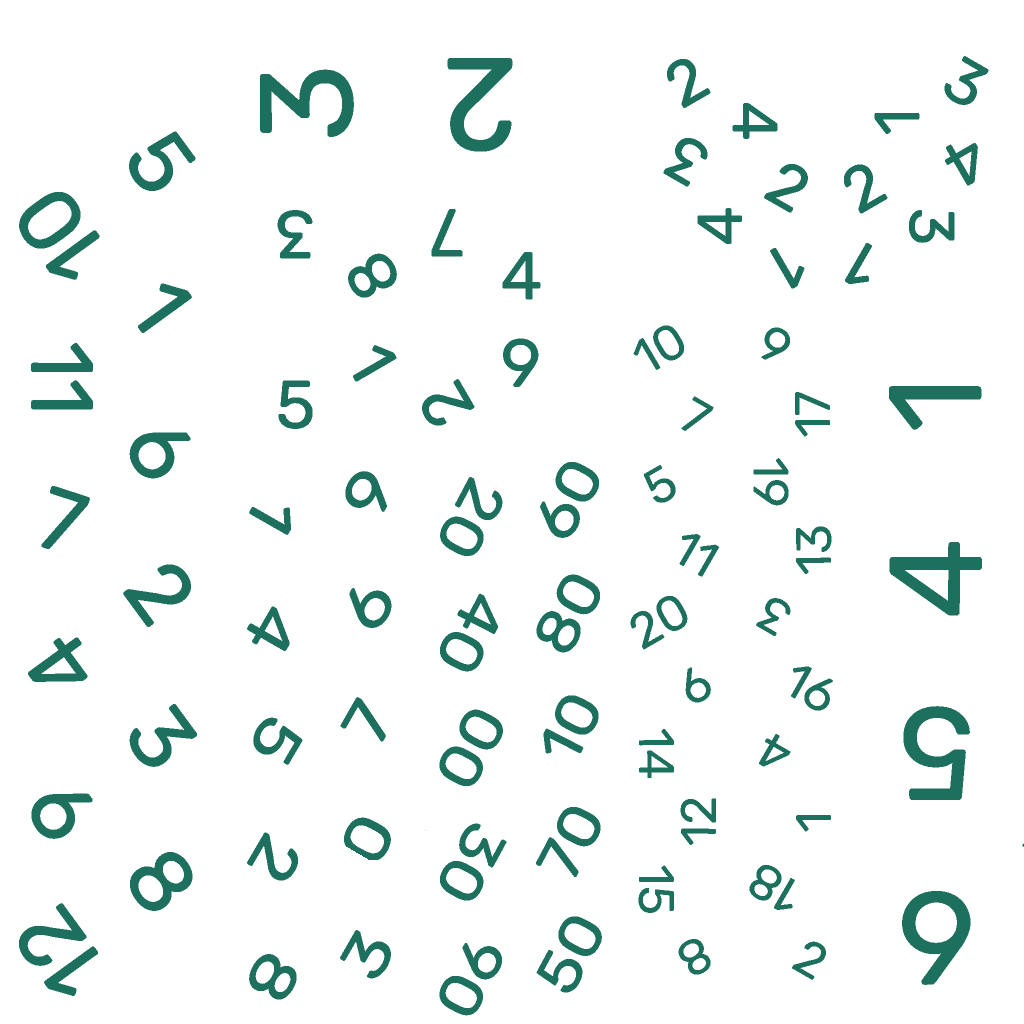
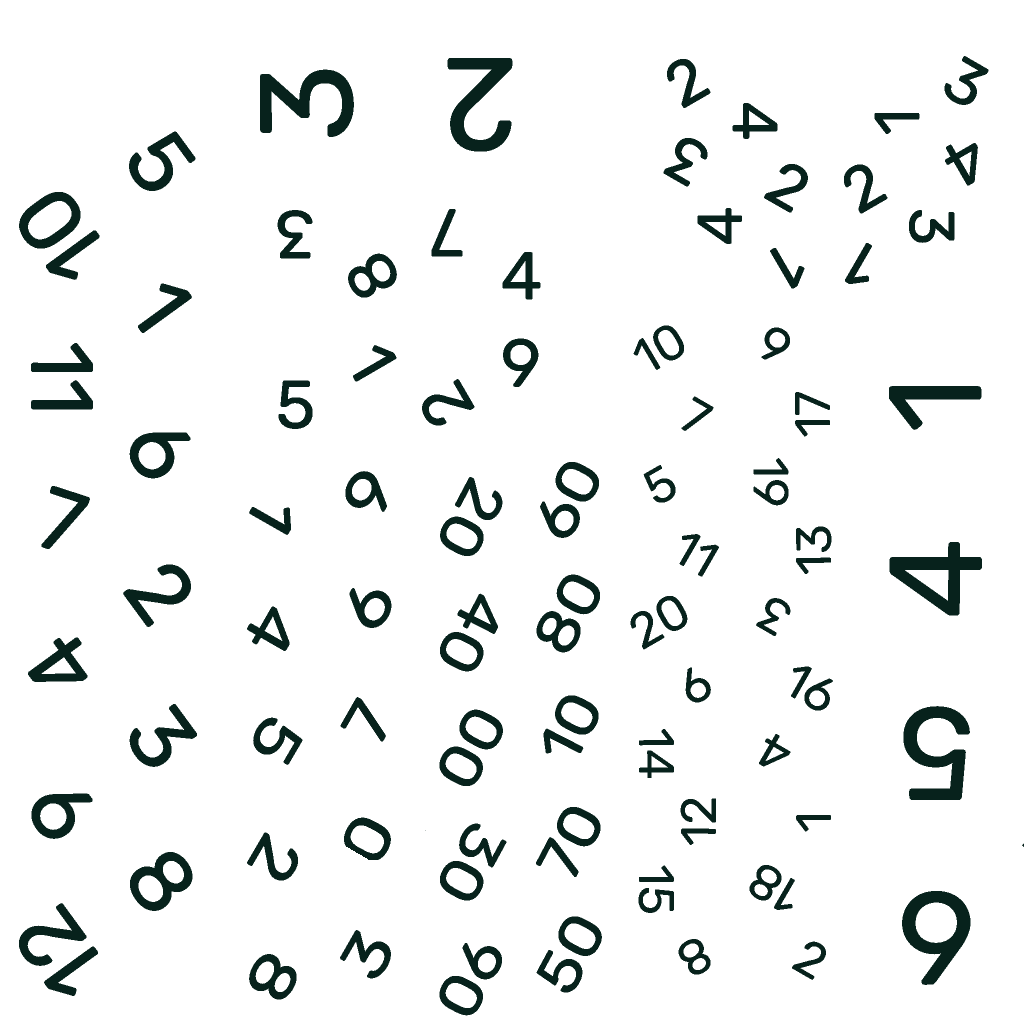
style(initiative): invert player die theme to #97f23d body with #07221c numbers

diff --git a/client/test/InitiativeHud.test.js b/client/test/InitiativeHud.test.js
@@ -40,12 +40,10 @@ describe('Initiative Dice & HUD System', () => {
     });
 
     it('defines CSS colors matching user specifications', () => {
-      // Player: body #70e6b3, border/text #1d705d
-      expect(spaceContent).toMatch(/#70e6b3/);
-      expect(spaceContent).toMatch(/#1d705d/);
-      // Opposition: body #07221c, numbers #97f23d
-      expect(spaceContent).toMatch(/#07221c/);
+      // Player: body #97f23d, border/text #07221c
       expect(spaceContent).toMatch(/#97f23d/);
+      expect(spaceContent).toMatch(/#07221c/);
+      // Opposition: body #07221c, numbers #97f23d
     });
 
     it('defines glow effect box-shadow and text-shadow on initiative HUD banner', () => {
@@ -85,12 +83,10 @@ describe('Initiative Dice & HUD System', () => {
     });
 
     it('defines CSS colors matching user specifications', () => {
-      // Player: body #70e6b3, border/text #1d705d
-      expect(rpgContent).toMatch(/#70e6b3/);
-      expect(rpgContent).toMatch(/#1d705d/);
-      // Opposition: body #07221c, numbers #97f23d
-      expect(rpgContent).toMatch(/#07221c/);
+      // Player: body #97f23d, border/text #07221c
       expect(rpgContent).toMatch(/#97f23d/);
+      expect(rpgContent).toMatch(/#07221c/);
+      // Opposition: body #07221c, numbers #97f23d
     });
 
     it('defines glow effect box-shadow and text-shadow on initiative HUD banner', () => {
@@ -116,6 +112,16 @@ describe('Initiative Dice & HUD System', () => {
   });
 
   describe('Initiative Roll Winner Determination', () => {
+    it('correctly parses dice rolls with inverted theme colors (#97f23d player, #07221c opp)', () => {
+      const res = calculateInitiativeRoll([
+        { theme: 'custom-init-player', themeColor: '#97f23d', value: 8 },
+        { theme: 'custom-init-opp', themeColor: '#07221c', value: 4 }
+      ]);
+      expect(res.playerRoll).toBe(8);
+      expect(res.oppRoll).toBe(4);
+      expect(res.valid).toBe(true);
+    });
+
     it('correctly parses dice rolls with #70e6b3 and #07221c themeColors', () => {
       const res = calculateInitiativeRoll([
         { theme: 'custom-init-player', themeColor: '#70e6b3', value: 8 },

diff --git a/client/src/views/RpgVttView.vue b/client/src/views/RpgVttView.vue
@@ -1033,7 +1033,7 @@ async function rollInitiative() {
 
   try {
     const results = await executeQueuedDiceRoll(diceBox, [
-      { sides: 10, theme: 'custom-init-player', themeColor: '#70e6b3', qty: 1 },
+      { sides: 10, theme: 'custom-init-player', themeColor: '#97f23d', qty: 1 },
       { sides: 10, theme: 'custom-init-opp', themeColor: '#07221c', qty: 1 }
     ]);
     const initSummary = calculateInitiativeRoll(results);
@@ -2604,10 +2604,10 @@ onBeforeUnmount(() => {
   box-shadow: inset 0 2px 4px rgba(255, 255, 255, 0.1), 0 4px 12px rgba(0, 0, 0, 0.4);
 }
 .init-player-die {
-  background: #70e6b3;
-  border: 2px solid #1d705d;
-  color: #1d705d;
-  box-shadow: 0 0 12px rgba(112, 230, 179, 0.4), inset 0 2px 4px rgba(255, 255, 255, 0.3);
+  background: #97f23d;
+  border: 2px solid #07221c;
+  color: #07221c;
+  box-shadow: 0 0 12px rgba(151, 242, 61, 0.4), inset 0 2px 4px rgba(255, 255, 255, 0.3);
 }
 .init-player-die .init-val {
   text-shadow: 0 0 10px rgba(181, 238, 255, 0.7);
@@ -2648,13 +2648,13 @@ onBeforeUnmount(() => {
   font-size: 11px;
 }
 .init-pill-player {
-  background: #70e6b3;
-  color: #1d705d;
-  border: 1px solid #1d705d;
+  background: #97f23d;
+  color: #07221c;
+  border: 1px solid #07221c;
   padding: 1px 6px;
   border-radius: 3px;
   font-weight: 700;
-  box-shadow: 0 0 6px rgba(112, 230, 179, 0.35);
+  box-shadow: 0 0 6px rgba(151, 242, 61, 0.35);
 }
 .init-pill-opp {
   background: #07221c;

diff --git a/client/src/views/SpaceVttView.vue b/client/src/views/SpaceVttView.vue
@@ -1654,7 +1654,7 @@ async function rollInitiative() {
 
   try {
     const results = await executeQueuedDiceRoll(diceBox, [
-      { sides: 10, theme: 'custom-init-player', themeColor: '#70e6b3', qty: 1 },
+      { sides: 10, theme: 'custom-init-player', themeColor: '#97f23d', qty: 1 },
       { sides: 10, theme: 'custom-init-opp', themeColor: '#07221c', qty: 1 }
     ]);
     const initSummary = calculateInitiativeRoll(results);
@@ -3731,10 +3731,10 @@ onBeforeUnmount(() => {
   box-shadow: inset 0 2px 4px rgba(255, 255, 255, 0.1), 0 4px 12px rgba(0, 0, 0, 0.4);
 }
 .init-player-die {
-  background: #70e6b3;
-  border: 2px solid #1d705d;
-  color: #1d705d;
-  box-shadow: 0 0 12px rgba(112, 230, 179, 0.4), inset 0 2px 4px rgba(255, 255, 255, 0.3);
+  background: #97f23d;
+  border: 2px solid #07221c;
+  color: #07221c;
+  box-shadow: 0 0 12px rgba(151, 242, 61, 0.4), inset 0 2px 4px rgba(255, 255, 255, 0.3);
 }
 .init-player-die .init-val {
   text-shadow: 0 0 10px rgba(181, 238, 255, 0.7);
@@ -3775,13 +3775,13 @@ onBeforeUnmount(() => {
   font-size: 11px;
 }
 .init-pill-player {
-  background: #70e6b3;
-  color: #1d705d;
-  border: 1px solid #1d705d;
+  background: #97f23d;
+  color: #07221c;
+  border: 1px solid #07221c;
   padding: 1px 6px;
   border-radius: 3px;
   font-weight: 700;
-  box-shadow: 0 0 6px rgba(112, 230, 179, 0.35);
+  box-shadow: 0 0 6px rgba(151, 242, 61, 0.35);
 }
 .init-pill-opp {
   background: #07221c;

diff --git a/server/build_initiative_themes.js b/server/build_initiative_themes.js
@@ -127,8 +127,8 @@ async function main() {
 
   const filesToCopy = ['default.json', 'package.json', 'specular.jpg', 'theme.config.json'];
 
-  // Player theme numbers: #1d705d (dark green on #70e6b3 die)
-  const playerDiffuse = await makeDiffuse(0x1d, 0x70, 0x5d);
+  // Player theme numbers: #07221c (dark spruce on #97f23d die)
+  const playerDiffuse = await makeDiffuse(0x07, 0x22, 0x1c);
   const playerDir = path.join(root, 'public/assets/dice-box/themes/custom-init-player');
   if (!fs.existsSync(playerDir)) fs.mkdirSync(playerDir, { recursive: true });
   for (const f of filesToCopy) {
@@ -137,9 +137,9 @@ async function main() {
   fs.writeFileSync(path.join(playerDir, 'diffuse-light.png'), playerDiffuse);
   fs.writeFileSync(path.join(playerDir, 'diffuse-dark.png'), playerDiffuse);
   fs.writeFileSync(path.join(playerDir, 'normal.png'), normBuffer);
-  console.log('Generated custom-init-player theme (#1d705d)');
+  console.log('Generated custom-init-player theme (#07221c)');
 
-  // Opposition theme numbers: #97f23d (bright lime on #124a3d die)
+  // Opposition theme numbers: #97f23d (bright lime on #07221c die)
   const oppDiffuse = await makeDiffuse(0x97, 0xf2, 0x3d);
   const oppDir = path.join(root, 'public/assets/dice-box/themes/custom-init-opp');
   if (!fs.existsSync(oppDir)) fs.mkdirSync(oppDir, { recursive: true });

diff --git a/client/src/utils/diceUtils.js b/client/src/utils/diceUtils.js
@@ -77,7 +77,7 @@ export function calculatePercentileRoll(results) {
 
 /**
  * Processes settled die objects from @3d-dice/dice-box for combat initiative.
- * Die #1 (Players): theme 'custom-init-player', themeColor '#70e6b3' (legacy: '#12415a', '#0b222e').
+ * Die #1 (Players): theme 'custom-init-player', themeColor '#97f23d' (legacy: '#70e6b3', '#12415a', '#0b222e').
  * Die #2 (Opposition): theme 'custom-init-opp', themeColor '#07221c' (legacy: '#124a3d', '#1d705d', '#6f0e39', '#400a22').
  * On a d10 face showing 0 (raw value 0 or 10), the roll value is 10 (range 1-10).
  *
@@ -94,9 +94,10 @@ export function calculateInitiativeRoll(results) {
     return { playerRoll: 0, oppRoll: 0, winner: 'tie', valid: false };
   }
 
-  // Find player die: theme 'custom-init-player', themeColor '#70e6b3' / '#12415a' / '#0b222e' / '#17304a', or groupId 0
+  // Find player die: theme 'custom-init-player', themeColor '#97f23d' / '#70e6b3' / '#12415a' / '#0b222e' / '#17304a', or groupId 0
   const playerDie = flat.find(d =>
     d?.theme === 'custom-init-player' ||
+    d?.themeColor?.toLowerCase() === '#97f23d' ||
     d?.themeColor?.toLowerCase() === '#70e6b3' ||
     d?.themeColor?.toLowerCase() === '#12415a' ||
     d?.themeColor?.toLowerCase() === '#0b222e' ||

diff --git a/client/test/diceUtils.test.js b/client/test/diceUtils.test.js
@@ -228,10 +228,10 @@ describe('calculateInitiativeRoll', () => {
   });
 
   it('identifies dice by themeColor when theme name is not present', () => {
-    // Reverse order input with new green site motif initiative colors (#70e6b3 and #07221c)
+    // Reverse order input with new green site motif initiative colors (#97f23d and #07221c)
     const raw = [
       { value: 6, themeColor: '#07221c' },
-      { value: 9, themeColor: '#70e6b3' },
+      { value: 9, themeColor: '#97f23d' },
     ];
     const result = calculateInitiativeRoll(raw);
     expect(result).toEqual({

diff --git a/client/test/safeDiceRoller.test.js b/client/test/safeDiceRoller.test.js
@@ -38,7 +38,7 @@ describe('safeDiceRoller with executeQueuedDiceRoll', () => {
 
     it('generates player and opposition dice for initiative notation', () => {
       const notation = [
-        { sides: 10, theme: 'custom-init-player', themeColor: '#70e6b3', qty: 1 },
+        { sides: 10, theme: 'custom-init-player', themeColor: '#97f23d', qty: 1 },
         { sides: 10, theme: 'custom-init-opp', themeColor: '#07221c', qty: 1 }
       ];
       const results = generateSyntheticRoll(notation);
